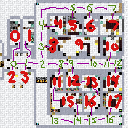
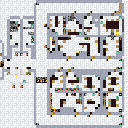
Implement best path drawing on dynamic map

diff --git a/src/main/java/me/tazadejava/map/DynamicMapRenderer.java b/src/main/java/me/tazadejava/map/DynamicMapRenderer.java
@@ -1,6 +1,11 @@
 package me.tazadejava.map;
 
+import me.tazadejava.analyzer.PlayerAnalyzer;
+import me.tazadejava.mission.Mission;
+import me.tazadejava.mission.MissionGraph;
+import me.tazadejava.mission.MissionManager;
 import org.bukkit.Bukkit;
+import org.bukkit.Location;
 import org.bukkit.Material;
 import org.bukkit.entity.Player;
 import org.bukkit.inventory.ItemStack;
@@ -8,21 +13,48 @@ import org.bukkit.inventory.meta.MapMeta;
 import org.bukkit.map.*;
 
 import javax.imageio.ImageIO;
-import javax.swing.*;
 import java.awt.*;
 import java.awt.image.BufferedImage;
 import java.io.IOException;
 import java.io.InputStream;
+import java.util.LinkedList;
+import java.util.List;
 
 public class DynamicMapRenderer extends MapRenderer {
 
-    public static ItemStack getMap() {
+    private MissionManager manager;
+    private Player player;
+
+    private PlayerAnalyzer analyzer;
+    private Mission mission;
+
+    private BufferedImage mapImage;
+
+    private int[] xRange, zRange;
+
+    private DynamicMapRenderer(MissionManager missionManager, Player player) {
+        this.manager = missionManager;
+        this.player = player;
+
+        try {
+            InputStream stream = getClass().getClassLoader().getResourceAsStream("sparky_map.png");
+            mapImage = ImageIO.read(stream);
+            stream.close();
+        } catch (IOException e) {
+            e.printStackTrace();
+        }
+
+        xRange = new int[] {-2154, -2105};
+        zRange = new int[] {152, 199};
+    }
+
+    public static ItemStack getMap(MissionManager missionManager, Player player) {
         MapView map = Bukkit.createMap(Bukkit.getWorlds().get(0));
         map.getRenderers().clear();
         map.setLocked(true);
         map.setUnlimitedTracking(false);
         map.setScale(MapView.Scale.NORMAL);
-        map.addRenderer(new DynamicMapRenderer());
+        map.addRenderer(new DynamicMapRenderer(missionManager, player));
 
         ItemStack mapItem = new ItemStack(Material.FILLED_MAP);
         MapMeta meta = (MapMeta) mapItem.getItemMeta();
@@ -38,42 +70,25 @@ public class DynamicMapRenderer extends MapRenderer {
         //X: -2154 to -2105
         //Z: 152 to 199
 
-        int[] xRange = new int[] {-2154, -2105};
-        int[] zRange = new int[] {152, 199};
+        double playerScaleX = getScale(xRange, player.getLocation().getBlockX());
+        double playerScaleZ = getScale(zRange, player.getLocation().getBlockZ());
 
-        int xLength = xRange[1] - xRange[0];
-        int zLength = zRange[1] - zRange[0];
+        int angle = (int) -((player.getLocation().getYaw() % 360) - 180d);
 
-        int playerX = player.getLocation().getBlockX();
-        int playerZ = player.getLocation().getBlockZ();
+        if(angle < 0) {
+            angle += 360;
+        }
 
-        double playerScaleX = (double) (playerX - xRange[0]) / xLength;
-        double playerScaleZ = (double) (playerZ - zRange[0]) / zLength;
+        //round angle to nearest 15
+        angle = (int) (Math.round(angle / 15.0) * 15.0);
 
-        try {
-            InputStream stream = getClass().getClassLoader().getResourceAsStream("sparky_map.png");
-            BufferedImage image = ImageIO.read(stream);
-            stream.close();
+        int pointerZTranslation = 64;
+        MapCursorCollection cursors = new MapCursorCollection();
+        canvas.drawImage(0, 0, rotateImage(mapImage, angle, playerScaleX, playerScaleZ, pointerZTranslation));
 
-            int angle = (int) -((player.getLocation().getYaw() % 360) - 180d);
+        cursors.addCursor(new MapCursor((byte) 0, (byte) pointerZTranslation, (byte) 8, MapCursor.Type.RED_POINTER, true));
 
-            if(angle < 0) {
-                angle += 360;
-            }
-
-            //round angle to nearest 15
-            angle = (int) (Math.round(angle / 15.0) * 15.0);
-
-            int pointerZTranslation = 64;
-            MapCursorCollection cursors = new MapCursorCollection();
-            canvas.drawImage(0, 0, rotateImage(image, angle, playerScaleX, playerScaleZ, pointerZTranslation));
-
-            cursors.addCursor(new MapCursor((byte) 0, (byte) pointerZTranslation, (byte) 8, MapCursor.Type.RED_POINTER, true));
-
-            canvas.setCursors(cursors);
-        } catch (IOException e) {
-            e.printStackTrace();
-        } catch(IllegalArgumentException ex) {}
+        canvas.setCursors(cursors);
     }
 
     private BufferedImage rotateImage(BufferedImage image, int angle, double xScale, double zScale, int pointerZTranslation) {
@@ -92,6 +107,8 @@ public class DynamicMapRenderer extends MapRenderer {
         int zDelta = (int) (-zScale * height) + (height / 2) + (int) (((pointerZTranslation) / 255d) * height);
         graphics.drawImage(image, null, xDelta, zDelta);
 
+        drawOnMap(graphics, xDelta, zDelta, width, height);
+
         graphics.dispose();
 
         //next, rotate
@@ -106,5 +123,98 @@ public class DynamicMapRenderer extends MapRenderer {
         graphics.dispose();
 
         return rotated;
+    }
+
+    private void drawOnMap(Graphics2D graphics, int mapOffsetX, int mapOffsetZ, int width, int height) {
+        if(analyzer == null || mission == null) {
+            if(manager.getCurrentMission() != null && manager.isMissionInProgress(manager.getCurrentMission())) {
+                analyzer = manager.getPlayerAnalyzer(player);
+                mission = manager.getCurrentMission();
+            }
+            return;
+        }
+        if(!manager.isMissionInProgress(mission)) {
+            analyzer = null;
+            mission = null;
+            return;
+        }
+
+        List<MissionGraph.MissionVertex> bestPath = analyzer.getLastBestPath();
+
+        if(bestPath == null) {
+            return;
+        }
+
+        int iconSize, colorIntensity;
+
+        int size = Math.min(bestPath.size(), 7);
+
+        MissionGraph graph = mission.getMissionGraph();
+
+//        for(int i = size - 1; i > 0; i--) {
+//            MissionGraph.MissionVertex nextVertex = bestPath.get(i);
+//
+//            colorIntensity = (int) (255 * Math.pow(((double) (size - i) / (size - 1)), 2));
+//            iconSize = (int) (5 * ((double) (size - i) / (size - 1))) + 3;
+//
+//            int x = mapOffsetX + (int) (128 * getScale(xRange, nextVertex.location.getBlockX()));
+//            int z = mapOffsetZ + (int) (128 * getScale(zRange, nextVertex.location.getBlockZ()));
+//
+//            //draw edge path
+//            graphics.setColor(new Color(colorIntensity, 0, colorIntensity));
+//            LinkedList<Location> edgePath = graph.getExactPathBetweenEdges(bestPath.get(i).type, bestPath.get(i).name, bestPath.get(i + 1).type, bestPath.get(i + 1).name);
+//            for(Location loc : edgePath) {
+//                int locX = mapOffsetX + (int) (128 * getScale(xRange, loc.getBlockX()));
+//                int locZ = mapOffsetZ + (int) (128 * getScale(zRange, loc.getBlockZ()));
+//                graphics.drawRect(locX, locZ, 1, 1);
+//            }
+//
+//            //draw destination node
+//            graphics.setColor(new Color(0, colorIntensity, 0));
+//            graphics.fillOval(x - (iconSize / 2), z - (iconSize / 2), iconSize, iconSize);
+//        }
+
+        for(int i = 1; i < size; i++) {
+            MissionGraph.MissionVertex nextVertex = bestPath.get(i);
+
+            colorIntensity = (int) (255 * Math.pow(((double) (size - i) / (size)), 2));
+            iconSize = (int) (5 * ((double) (size - i) / (size))) + 3;
+
+            int x = mapOffsetX + (int) (128 * getScale(xRange, nextVertex.location.getBlockX()));
+            int z = mapOffsetZ + (int) (128 * getScale(zRange, nextVertex.location.getBlockZ()));
+
+            //draw edge path
+            if(i < size - 1) {
+                graphics.setColor(new Color(colorIntensity, 0, colorIntensity));
+                LinkedList<Location> edgePath = graph.getExactPathBetweenEdges(bestPath.get(i).type, bestPath.get(i).name, bestPath.get(i + 1).type, bestPath.get(i + 1).name);
+                for (Location loc : edgePath) {
+                    int locX = mapOffsetX + (int) (128 * getScale(xRange, loc.getBlockX()));
+                    int locZ = mapOffsetZ + (int) (128 * getScale(zRange, loc.getBlockZ()));
+                    graphics.drawRect(locX, locZ, 1, 1);
+                }
+            }
+
+            //draw destination node
+            graphics.setColor(new Color(0, colorIntensity, 0));
+            graphics.fillOval(x - (iconSize / 2), z - (iconSize / 2), iconSize, iconSize);
+        }
+    }
+
+    /**
+     * Scale from 0 to 1 based on where on the map it is
+     * @param range
+     * @param value
+     */
+    private double getScale(int[] range, int value) {
+        int scaleLength = range[1] - range[0];
+        double scale = (double) (value - range[0]) / scaleLength;
+
+        if(scale > 1) {
+            return 1;
+        } else if(scale < 0) {
+            return 0;
+        } else {
+            return scale;
+        }
     }
 }

diff --git a/src/main/java/me/tazadejava/analyzer/PlayerAnalyzer.java b/src/main/java/me/tazadejava/analyzer/PlayerAnalyzer.java
@@ -75,6 +75,8 @@ public class PlayerAnalyzer {
     private Set<MissionGraph.MissionVertex> visitedVertices;
     private Set<MissionGraph.MissionVertex> unvisitedRooms;
 
+    private boolean shouldUpdatePlayerGraph = false;
+
     //roomSpeed: average MS per block in the room
     //decisionSpeed: average blocks per MS
     private double averagePlayerDecisionTraversalSpeed, averagePlayerRoomTriageSpeed;
@@ -91,6 +93,7 @@ public class PlayerAnalyzer {
     private static final boolean PRINT = true;
     private TextComponent actionBarMessage = null;
     private List<String> bestPathFormat;
+    private List<MissionGraph.MissionVertex> lastBestPath;
 
     public PlayerAnalyzer(Player player, Mission mission) {
         this.player = player;
@@ -319,7 +322,7 @@ public class PlayerAnalyzer {
                                 Bukkit.broadcastMessage("" + ChatColor.GOLD + ChatColor.BOLD + "FOUND EDGE BETWEEN ROOMS " + originalRoom.getRoomName() + " AND " + compareRoom.getRoomName()+ " WITH LENGTH " + mission.getMissionGraph().getShortestPathUsingEdges(MissionGraph.MissionVertexType.ROOM, originalRoom.getRoomName(), MissionGraph.MissionVertexType.ROOM, compareRoom.getRoomName()).getPathLength());
 
                                 //recalculate best path
-                                lastVertex = null;
+                                shouldUpdatePlayerGraph = true;
                             }
                         }
                     }
@@ -334,7 +337,7 @@ public class PlayerAnalyzer {
                     Bukkit.broadcastMessage("" + ChatColor.RED + ChatColor.BOLD + "THE EDGE BETWEEN " + lastVertex + " AND " + neighbor + " IS NOT TRAVERSABLE!");
                     mission.getMissionGraph().deleteEdge(lastVertex.type, lastVertex.name, neighbor.type, neighbor.name);
 
-                    lastVertex = null;
+                    shouldUpdatePlayerGraph = true;
                     break;
                 }
             }
@@ -690,12 +693,21 @@ public class PlayerAnalyzer {
         }
 
         //based on this result, output where the player can go next
-        if(playerVertex != null) {
-            if(!playerVertex.equals(lastVertex)) {
+        if((shouldUpdatePlayerGraph && lastVertex != null) || playerVertex != null) {
+            if(shouldUpdatePlayerGraph || !playerVertex.equals(lastVertex)) {
+                if(shouldUpdatePlayerGraph) {
+                    shouldUpdatePlayerGraph = false;
+
+                    if(playerVertex == null) {
+                        playerVertex = lastVertex;
+                    }
+                }
+
                 //best path
 
 //                HashMap<MissionGraph.MissionVertex, Double> roomPotentials = calculateRoomPotentials(playerVertex);
                 List<MissionGraph.MissionVertex> bestPath = calculateBestPath(playerVertex);
+                lastBestPath = bestPath;
 
                 bestPathFormat = new ArrayList<>();
                 HashMap<String, Integer> visitedVerticesCount = new HashMap<>();
@@ -992,5 +1004,9 @@ public class PlayerAnalyzer {
 
     public Player getPlayer() {
         return player;
+    }
+
+    public List<MissionGraph.MissionVertex> getLastBestPath() {
+        return lastBestPath;
     }
 }

diff --git a/src/main/java/me/tazadejava/mission/MissionCommandHandler.java b/src/main/java/me/tazadejava/mission/MissionCommandHandler.java
@@ -852,7 +852,14 @@ public class MissionCommandHandler implements CommandExecutor, TabCompleter {
                 case "gps":
                     if(commandSender instanceof Player) {
                         p = (Player) commandSender;
-                        p.getInventory().setItemInMainHand(DynamicMapRenderer.getMap());
+                        p.getInventory().setItemInMainHand(DynamicMapRenderer.getMap(missionManager, p));
+                    }
+                    break;
+                case "mapgps":
+                    if(commandSender instanceof Player) {
+                        p = (Player) commandSender;
+                        p.getInventory().setItemInMainHand(DynamicMapRenderer.getMap(missionManager, p));
+                        p.getInventory().setItemInOffHand(MapOverlayRenderer.getMap());
                     }
                     break;
                 default:

diff --git a/src/main/java/me/tazadejava/mission/MissionManager.java b/src/main/java/me/tazadejava/mission/MissionManager.java
@@ -236,6 +236,10 @@ public class MissionManager {
         return missionInProgress && currentMission == mission;
     }
 
+    public Mission getCurrentMission() {
+        return currentMission;
+    }
+
     private void endMission(boolean saveLog) {
         if(saveLog) {
             saveLog();
@@ -266,6 +270,20 @@ public class MissionManager {
         }
 
         return missions.values();
+    }
+
+    public PlayerAnalyzer getPlayerAnalyzer(Player p) {
+        if(playerAnalyzers == null) {
+            return null;
+        }
+
+        for(PlayerAnalyzer analyzer : playerAnalyzers) {
+            if(analyzer.getPlayer().equals(p)) {
+                return analyzer;
+            }
+        }
+
+        return null;
     }
 
     private void saveLog() {

diff --git a/src/main/java/me/tazadejava/map/MapOverlayRenderer.java b/src/main/java/me/tazadejava/map/MapOverlayRenderer.java
@@ -70,7 +70,7 @@ public class MapOverlayRenderer extends MapRenderer {
         byte direction = (byte) Math.floor(((player.getLocation().getYaw() % 360) / 360d) * 16);
 
         try {
-            InputStream stream = getClass().getClassLoader().getResourceAsStream("sparky_map.png");
+            InputStream stream = getClass().getClassLoader().getResourceAsStream("sparky_map_annotated.png");
             BufferedImage image = ImageIO.read(stream);
             canvas.drawImage(0, 0, image);
             stream.close();

diff --git a/src/main/java/me/tazadejava/mission/MissionGraph.java b/src/main/java/me/tazadejava/mission/MissionGraph.java
@@ -676,6 +676,13 @@ public class MissionGraph {
         return true;
     }
 
+    public LinkedList<Location> getExactPathBetweenEdges(MissionVertexType type1, String name1, MissionVertexType type2, String name2) {
+        MissionVertex begin = getVertex(type1, name1);
+        MissionVertex end = getVertex(type2, name2);
+
+        return edgePaths.get(begin).get(end);
+    }
+
     public double getEdgeWeight(MissionVertex begin, MissionVertex end) {
         return edgeWeights.get(begin).get(end);
     }
